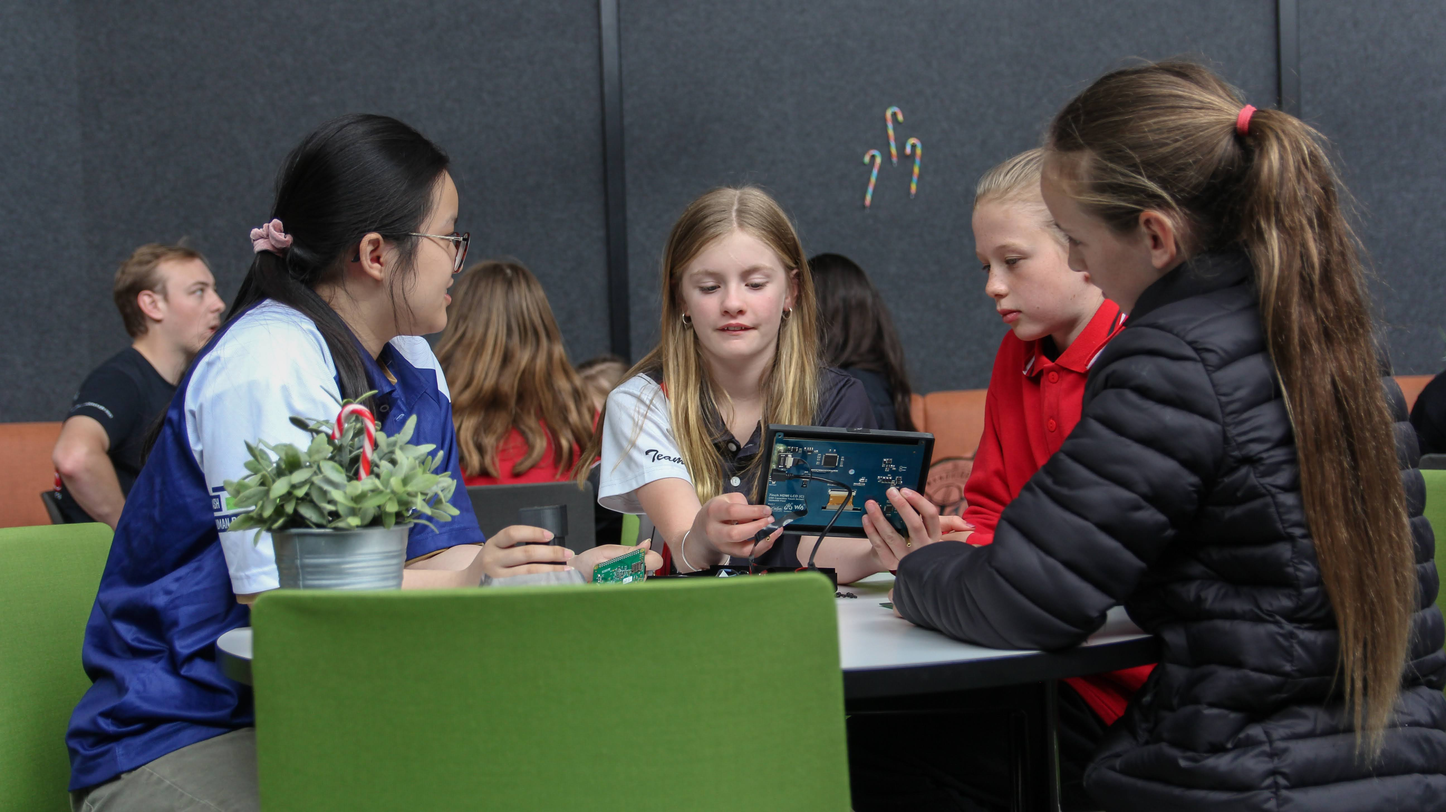
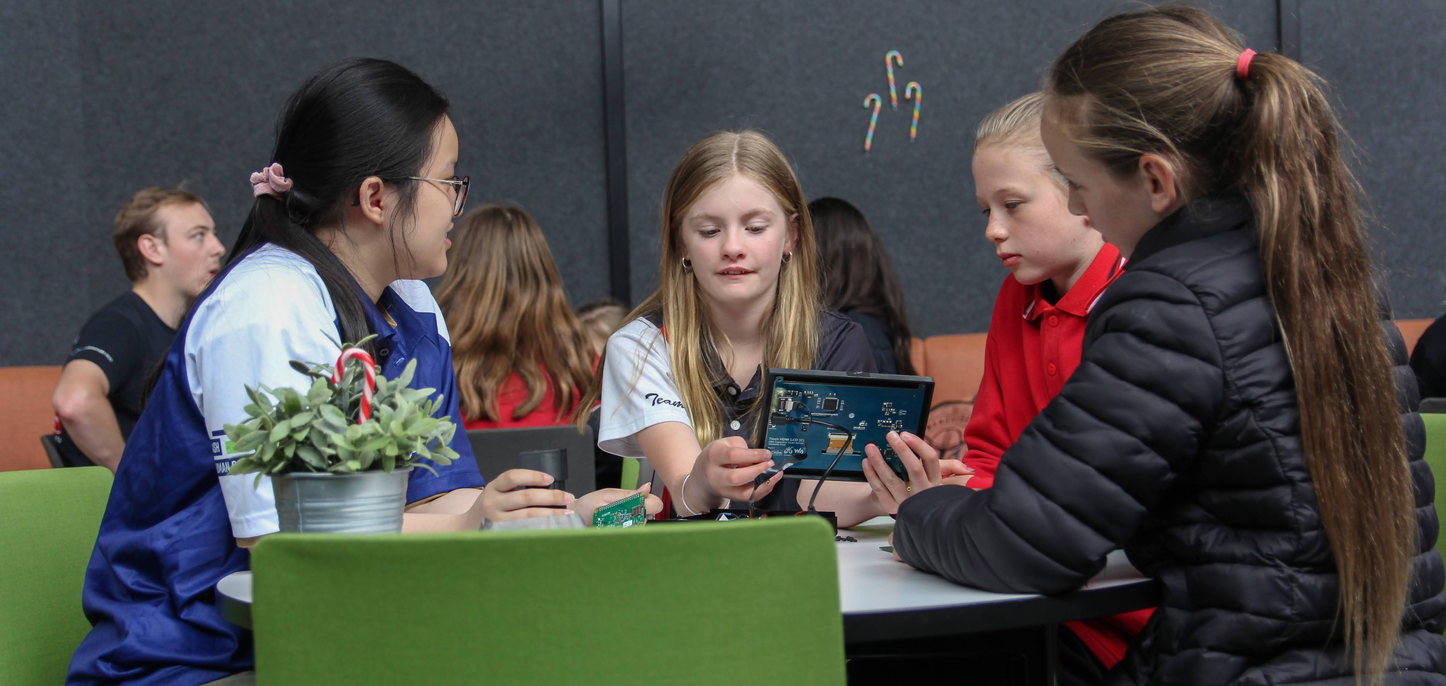
Made changes to formatting of outreach page so images are more coherent

diff --git a/app/outreach/page.tsx b/app/outreach/page.tsx
@@ -47,7 +47,7 @@ export default function Outreach() {
         </div>
       </PageSection>
 
-      <div className="max-h-80 items-center overflow-hidden">
+      <div className="items-center overflow-hidden mx-auto">
         <Image
           src="/outreach_1.jpg"
           width="800"
@@ -55,7 +55,7 @@ export default function Outreach() {
           objectFit="cover"
           alt="Epsom Primary School"
           layout="responsive"
-          className="top-1/2 transform -translate-y-1/4"
+          // className="top-1/2 transform -translate-y-1/4"
         />
       </div>
 
@@ -91,11 +91,11 @@ export default function Outreach() {
             paddingBottom: "20px",
           }}
         >
-          <Button hrefString="/" text="See Options" theme="dark" />
+          <Button hrefString="/programs" text="See Options" theme="dark" />
         </div>
       </PageSection>
 
-      <div className="max-h-80 items-center overflow-hidden">
+      <div className="items-center overflow-hidden">
         <Image
           src="/outreach_2.jpg"
           width="800"
@@ -103,7 +103,7 @@ export default function Outreach() {
           objectFit="cover"
           alt="Robogals Engage Engineer"
           layout="responsive"
-          className="transform -translate-y-1/4"
+          // className="transform -translate-y-1/4"
         />
       </div>
 

diff --git a/app/layout.tsx b/app/layout.tsx
@@ -19,7 +19,7 @@ export default function RootLayout({
   return (
     <html lang="en">
       <body
-        className={inter.className + " bg-white flex flex-col min-h-screen"}
+        className={inter.className + " bg-black flex flex-col min-h-screen"}
       >
         <Navbar />
         <div className="flex-1">{children}</div>
